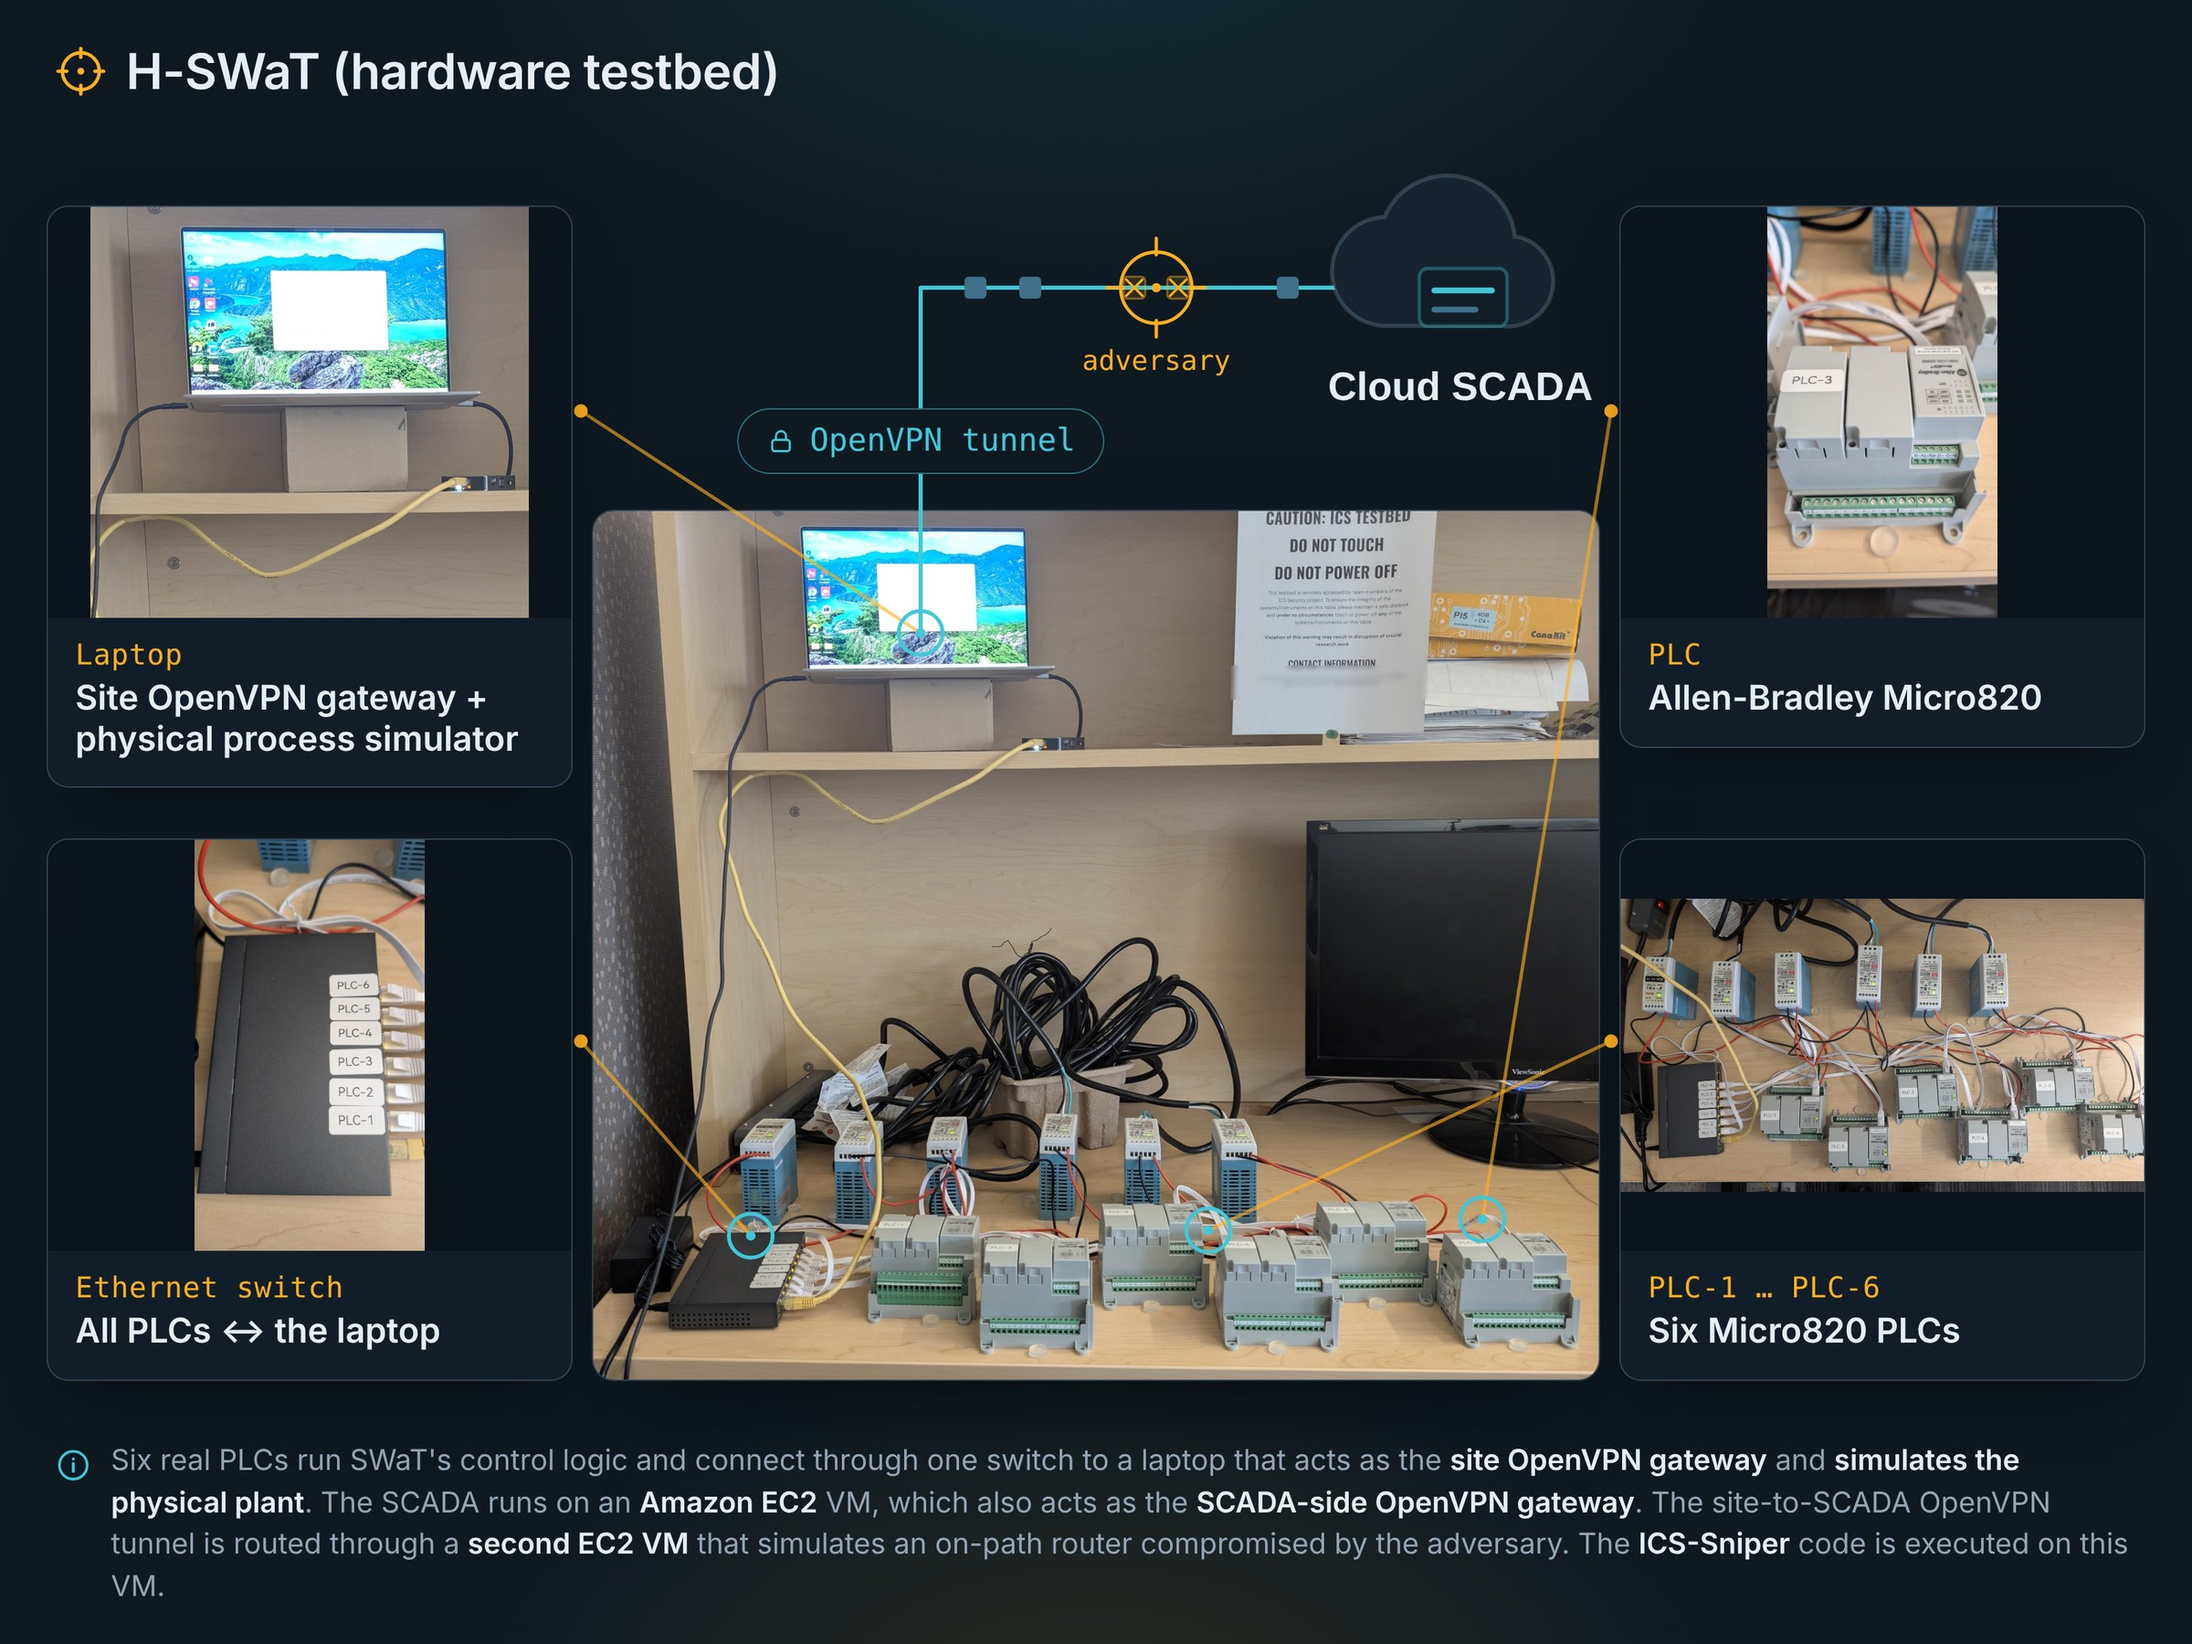
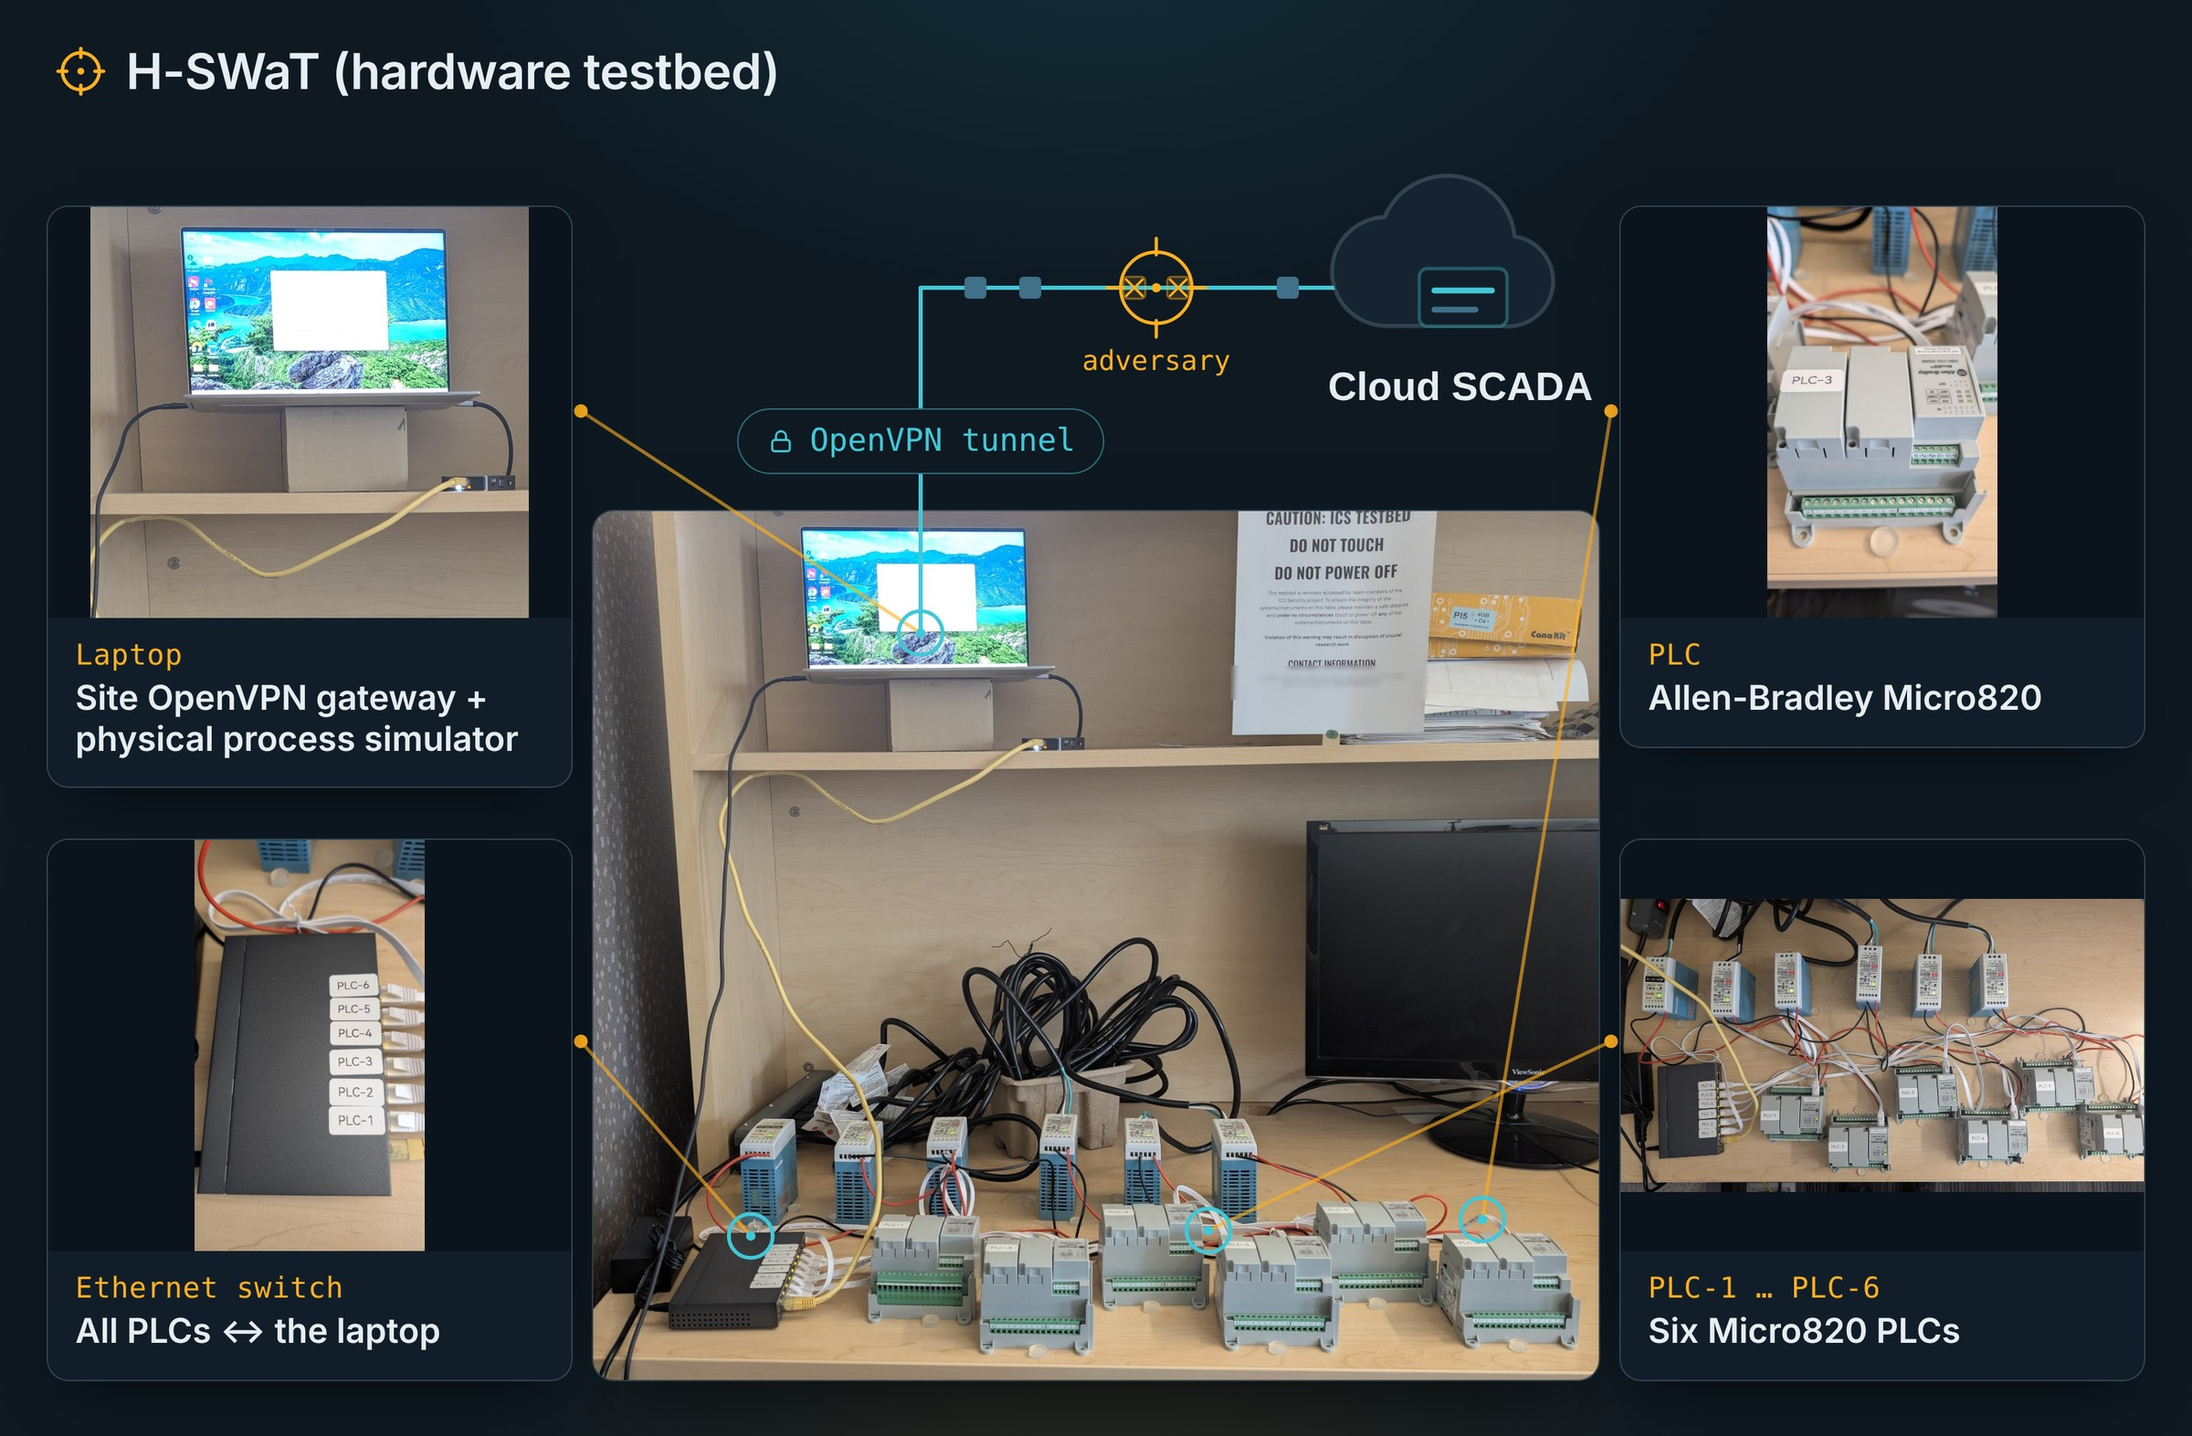
Added testbed photos

diff --git a/index.html b/index.html
@@ -542,6 +542,7 @@
 
     <figure class="tb-figure tb-figure-wide">
       <img src="./images/testbed.jpg" alt="H-SWaT hardware testbed: six real Allen-Bradley Micro820 PLCs connect through an Ethernet switch to a laptop acting as the site OpenVPN gateway and physical-process simulator; the cloud SCADA runs on an Amazon EC2 VM, and the OpenVPN tunnel is routed through a second EC2 VM that simulates a compromised on-path router running ICS-Sniper.">
+      <figcaption>Six real PLCs run SWaT's control logic and connect through one switch to a laptop that acts as the site OpenVPN gateway and simulates the physical plant. The SCADA runs on an Amazon EC2 VM, which also acts as the SCADA-side OpenVPN gateway. The site-to-SCADA OpenVPN tunnel is routed through a second EC2 VM that simulates an on-path router compromised by the adversary. The ICS-Sniper code is executed on this VM.</figcaption>
     </figure>
   </div>
 </section>

diff --git a/styles.css b/styles.css
@@ -439,7 +439,8 @@ footer{border-top:1px solid var(--border);padding:44px 0 60px;background:var(--b
 }
 .tb-ph svg{width:46px;height:46px;opacity:.75}
 .tb-ph .hint{font-family:"IBM Plex Mono",monospace;font-size:.82rem}
-.tb-figure figcaption{margin-top:12px;font-size:.92rem;color:var(--faint);text-align:center}
+.tb-figure figcaption{margin-top:14px;font-size:.95rem;color:var(--faint);text-align:left;line-height:1.5}
+.tb-figure figcaption b{color:var(--text);font-weight:600}
 .tb-cards{display:grid;grid-template-columns:repeat(3,1fr);gap:18px;margin-top:34px}
 @media (max-width:820px){.tb-cards{grid-template-columns:1fr}}
 .tb-card{border:1px solid var(--border);border-radius:14px;background:var(--surface);padding:22px 24px;border-top:2px solid var(--cyan)}
